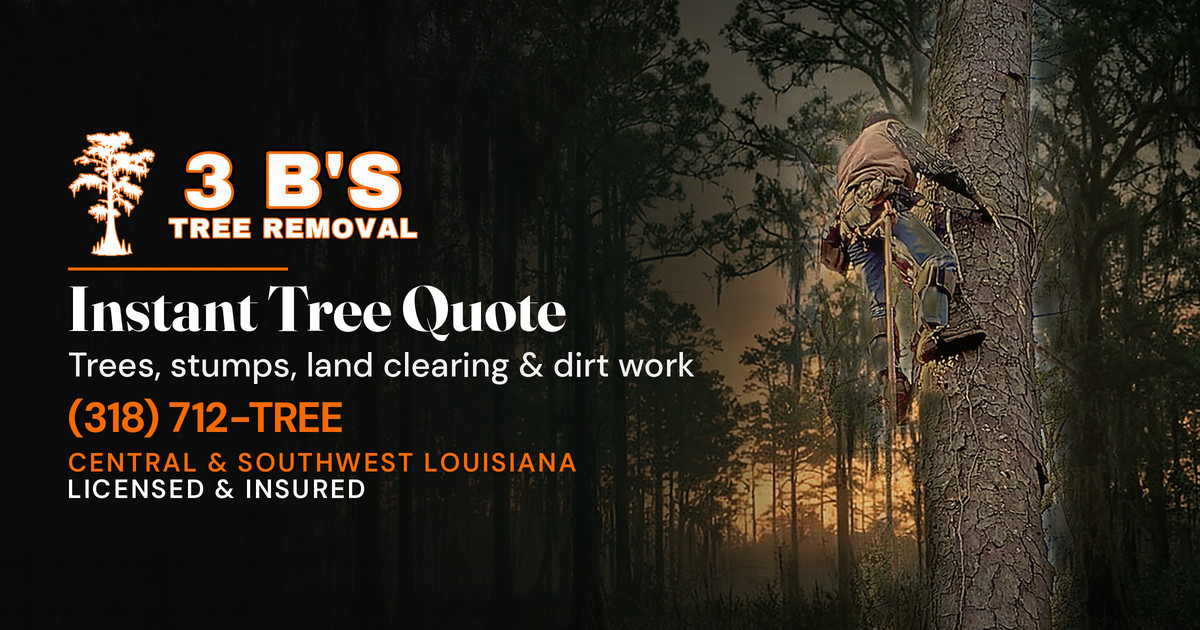
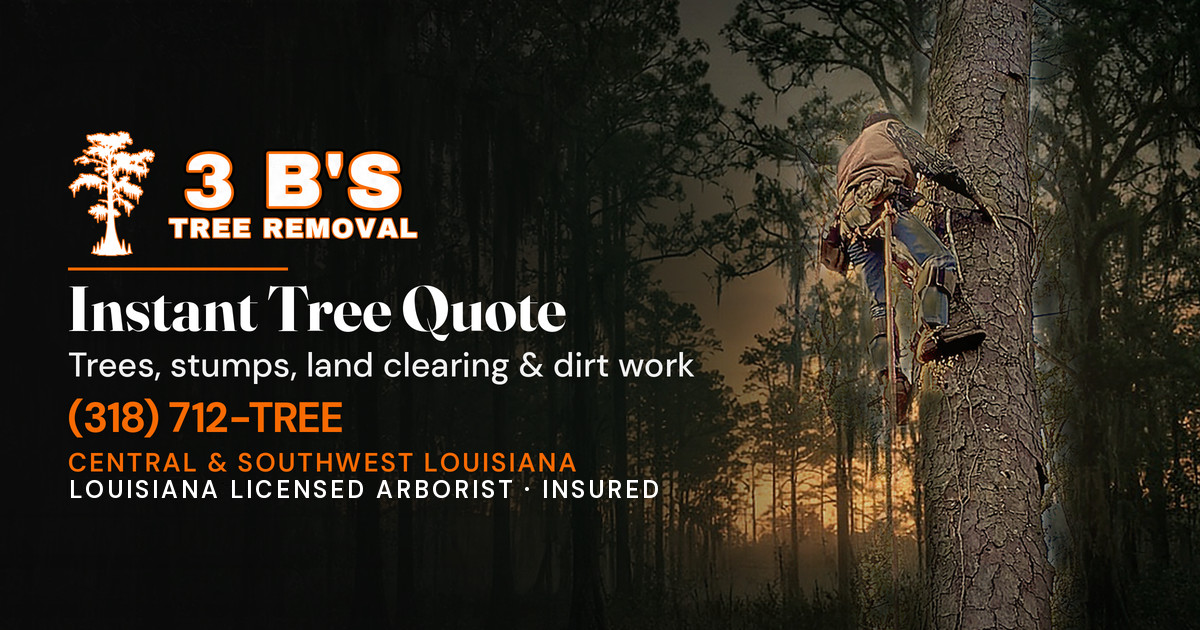
Name Blake as a Louisiana licensed arborist and insured on the link preview.

Changed region(s): [[0.0617, 0.754, 0.555, 0.8143]]

diff --git a/index.html b/index.html
@@ -4,7 +4,7 @@
   <meta charset="utf-8" />
   <meta name="viewport" content="width=device-width, initial-scale=1, viewport-fit=cover" />
   <title>3 B's Tree Removal | Central &amp; Southwest Louisiana</title>
-  <meta name="description" content="Tree removal, trimming, stump grinding, storm cleanup, and dirt work in Central &amp; Southwest Louisiana. Blake’s a Louisiana Licensed Arborist and he’ll come check it out. Call (318) 712-TREE." />
+  <meta name="description" content="Tree removal, trimming, stump grinding, storm cleanup, and dirt work in Central &amp; Southwest Louisiana. Blake’s a Louisiana Licensed Arborist and insured. He’ll come check it out. Call (318) 712-TREE." />
   <meta name="robots" content="index,follow" />
   <meta name="theme-color" content="#0A0A0A" />
   <link rel="preload" as="image" href="img/hero-poster.jpg?v=orange1" media="(max-width: 767px) and (orientation: portrait)" fetchpriority="high" />
@@ -21,16 +21,17 @@
   <link rel="icon" type="image/png" sizes="48x48" href="favicon-48x48.png" />
   <link rel="apple-touch-icon" href="apple-touch-icon.png" />
   <meta property="og:title" content="3 B's Tree Removal | Central &amp; Southwest Louisiana" />
-  <meta property="og:description" content="Tree removal, trimming, stump grinding, storm cleanup, and dirt work in Central &amp; Southwest Louisiana. Blake’s a Louisiana Licensed Arborist and he’ll come check it out. Call (318) 712-TREE." />
-  <meta property="og:image" content="https://3bs.getpros.xyz/og-image.jpg" />
+  <meta property="og:description" content="Tree removal, trimming, stump grinding, storm cleanup, and dirt work in Central &amp; Southwest Louisiana. Blake’s a Louisiana Licensed Arborist and insured. He’ll come check it out. Call (318) 712-TREE." />
+  <meta property="og:image" content="https://3bs.getpros.xyz/og-image.jpg?v=20261120" />
   <meta property="og:image:width" content="1200" />
   <meta property="og:image:height" content="630" />
+  <meta property="og:image:alt" content="3 B's Tree Removal instant tree quote. Louisiana licensed arborist and insured. Trees, stumps, land clearing and dirt work in Central and Southwest Louisiana. Call (318) 712-TREE." />
   <meta property="og:type" content="website" />
   <meta property="og:url" content="https://3bs.getpros.xyz/" />
   <meta name="twitter:card" content="summary_large_image" />
   <meta name="twitter:title" content="3 B's Tree Removal | Central &amp; Southwest Louisiana" />
-  <meta name="twitter:description" content="Tree removal, trimming, stump grinding, storm cleanup, and dirt work in Central &amp; Southwest Louisiana. Blake’s a Louisiana Licensed Arborist and he’ll come check it out. Call (318) 712-TREE." />
-  <meta name="twitter:image" content="https://3bs.getpros.xyz/og-image.jpg" />
+  <meta name="twitter:description" content="Tree removal, trimming, stump grinding, storm cleanup, and dirt work in Central &amp; Southwest Louisiana. Blake’s a Louisiana Licensed Arborist and insured. He’ll come check it out. Call (318) 712-TREE." />
+  <meta name="twitter:image" content="https://3bs.getpros.xyz/og-image.jpg?v=20261120" />
   <script type="application/ld+json">
   {
     "@context": "https://schema.org",
@@ -41,7 +42,7 @@
         "name": "3 B's Tree Removal",
         "url": "https://3bs.getpros.xyz/",
         "telephone": "+1-318-712-8733",
-        "image": "https://3bs.getpros.xyz/og-image.jpg",
+        "image": "https://3bs.getpros.xyz/og-image.jpg?v=20261120",
         "logo": "https://3bs.getpros.xyz/img/logo/lockup_B2_orange_rim_transparent.png",
         "description": "Hazardous tree removal, professional trimming, storm cleanup, stump grinding, and skid steer dirt work and lot clearing in Central and Southwest Louisiana. Based in Pitkin, Louisiana. Call (318) 712-TREE.",
         "address": {

diff --git a/discoverability.test.js b/discoverability.test.js
@@ -47,13 +47,37 @@ function meta(html, name) {
   return decode(match[1]);
 }
 
-test("public files omit the private cell, the words free and insured, and prices", () => {
+test("public files omit the private cell, the word free, and prices", () => {
   for (const [name, text] of Object.entries(PUBLIC)) {
     assert.doesNotMatch(text, /337[-.\s)?]*378[-.\s]?4046/, name);
     assert.doesNotMatch(text, /\bfree\b/i, name);
-    assert.doesNotMatch(text, /\binsured\b/i, name);
     assert.doesNotMatch(text, /\$\s?\d/, name);
   }
+});
+
+test("page and social descriptions say Louisiana licensed arborist and insured", () => {
+  const fields = [
+    meta(index, "description"),
+    decode(index.match(/property="og:description" content="([\s\S]*?)"/)[1]),
+    decode(index.match(/name="twitter:description" content="([\s\S]*?)"/)[1]),
+  ];
+  for (const text of fields) {
+    assert.match(text, /Louisiana licensed arborist/i);
+    assert.match(text, /\binsured\b/i);
+  }
+});
+
+test("link preview image is absolute, sized, described, and cache-busted", () => {
+  const image = "https://3bs.getpros.xyz/og-image.jpg?v=20261120";
+  assert.ok(index.includes(`property="og:image" content="${image}"`));
+  assert.match(index, /property="og:image:width" content="1200"/);
+  assert.match(index, /property="og:image:height" content="630"/);
+  const alt = decode(index.match(/property="og:image:alt" content="([\s\S]*?)"/)[1]);
+  assert.match(alt, /Louisiana licensed arborist/i);
+  assert.match(alt, /\binsured\b/i);
+  assert.ok(index.includes(`name="twitter:image" content="${image}"`));
+  assert.match(index, /rel="icon" href="favicon\.ico"/);
+  assert.match(index, /rel="apple-touch-icon" href="apple-touch-icon\.png"/);
 });
 
 test("titles and meta descriptions are present and unique", () => {

diff --git a/camille-looks.test.js b/camille-looks.test.js
@@ -66,6 +66,5 @@ test("page copy still says Louisiana Licensed Arborist and never says free", () 
   const sentence = "Blake’s a Louisiana Licensed Arborist and he’ll come check it out.";
   assert.ok((html.split(sentence).length - 1) >= 5);
   assert.doesNotMatch(html, /\bfree\b/i);
-  assert.doesNotMatch(html, /\binsured\b/i);
   assert.doesNotMatch(html, /337[-.\s)?]*378[-.\s]?4046/);
 });
